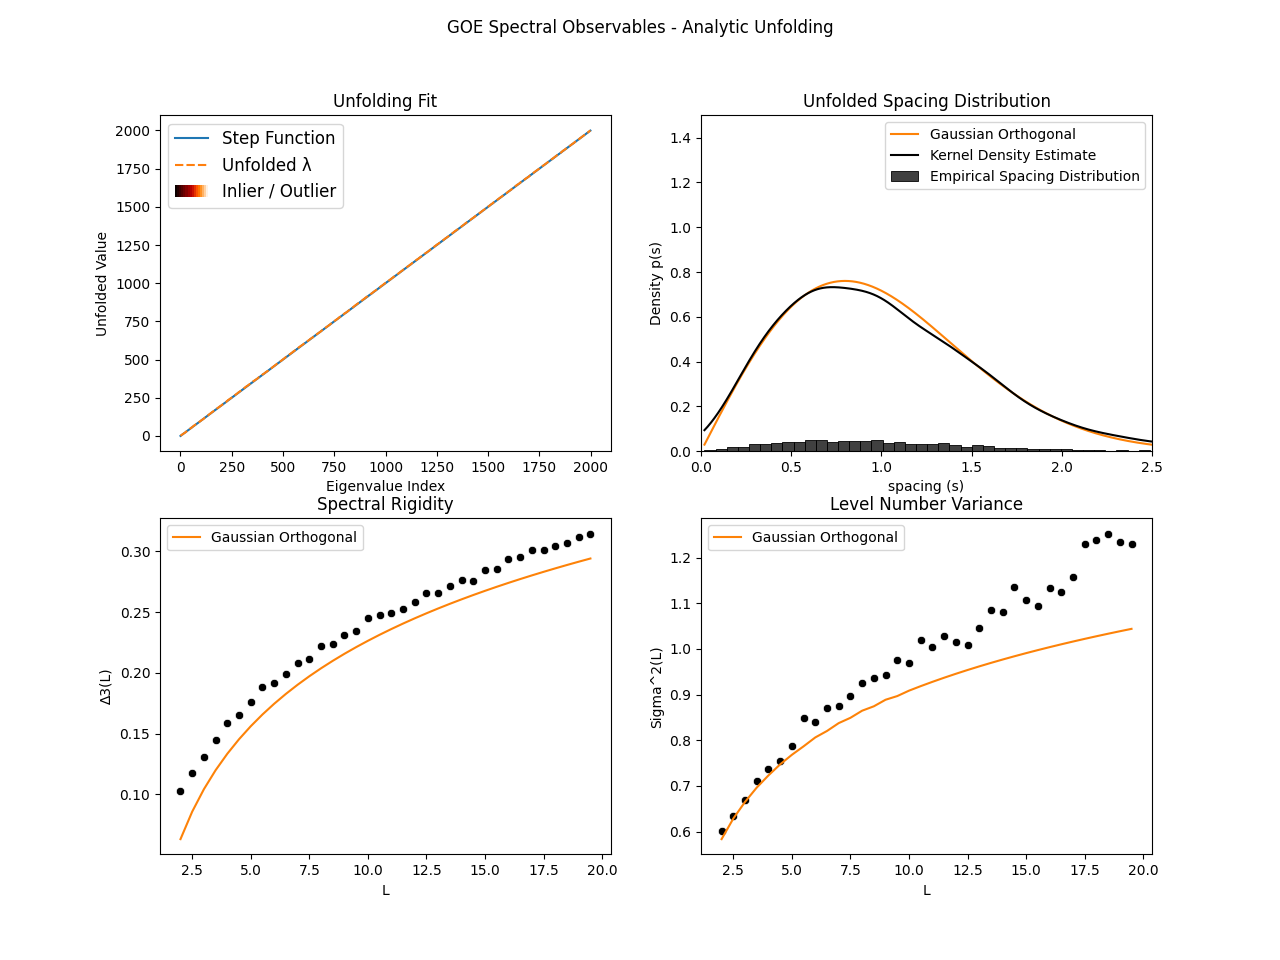
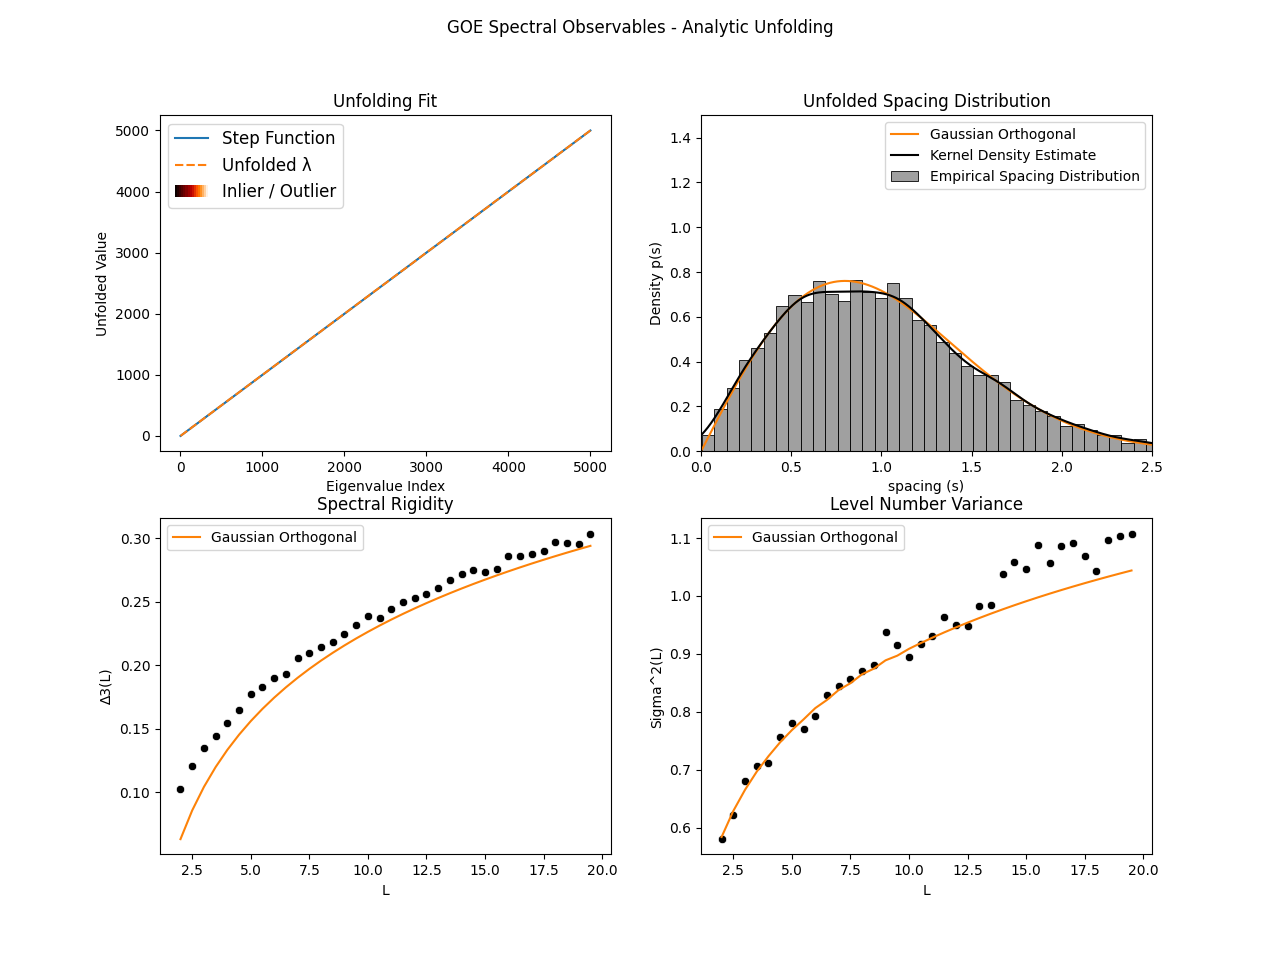
[WIP] update README

diff --git a/empyricalRMT/plot.py b/empyricalRMT/plot.py
@@ -500,11 +500,11 @@ def _spacings(
     # axes: Axes
     axes = sbn.histplot(
         _spacings,
-        stat="probability",
+        stat="density",
         bins=bins,  # type: ignore
         kde=False,
         label="Empirical Spacing Distribution",
-        color="black",
+        color="grey",
         ax=axes,
     )
     axes = cast(Axes, axes)
@@ -858,15 +858,15 @@ def _spectral_rigidity(
         poisson = axes.plot(L, poisson, label="Poisson", color="#08FD4F")
         # plt.setp(poisson, color="#08FD4F")
     if "goe" in ensembles:
-        goe = (1 / (p ** 2)) * (np.log(2 * p * s) + y - 5 / 4 - (p ** 2) / 8)
+        goe = (1 / (p**2)) * (np.log(2 * p * s) + y - 5 / 4 - (p**2) / 8)
         goe = axes.plot(L, goe, label="Gaussian Orthogonal", color="#FD8208")
         # plt.setp(goe, color="#FD8208")
     if "gue" in ensembles:
-        gue = (1 / (2 * (p ** 2))) * (np.log(2 * p * s) + y - 5 / 4)
+        gue = (1 / (2 * (p**2))) * (np.log(2 * p * s) + y - 5 / 4)
         gue = axes.plot(L, gue, label="Gaussian Unitary", color="#0066FF")
         # plt.setp(gue, color="#0066FF")
     if "gse" in ensembles:
-        gse = (1 / (4 * (p ** 2))) * (np.log(4 * p * s) + y - 5 / 4 + (p ** 2) / 8)
+        gse = (1 / (4 * (p**2))) * (np.log(4 * p * s) + y - 5 / 4 + (p**2) / 8)
         gse = axes.plot(L, gse, label="Gaussian Symplectic", color="#EA00FF")
         # plt.setp(gse, color="#EA00FF")
 
@@ -990,7 +990,7 @@ def _level_number_variance(
         # sici(x) returns (Sine integral from 0 to x, gamma + log(x) + Cosine integral from 0 to x)
         int_3 = (sici(np.inf)[0] - sici(p * x)[0]) ** 2
         t1 = 4 * x / p
-        t2 = 2 / p ** 2
+        t2 = 2 / p**2
         t3 = t2 / 2
         res = t1 * quad(f1, p * x, np.inf, limit=100)[0] + t2 * int_2 - 0.25 + t3 * int_3
         return float(res)
@@ -1008,15 +1008,15 @@ def _level_number_variance(
                 if L[i] < 10:
                     goe[i] = exact(s_val)
                 else:
-                    goe[i] = (2 / (p ** 2)) * (np.log(2 * p * s_val) + y + 1 - (p ** 2) / 8)
+                    goe[i] = (2 / (p**2)) * (np.log(2 * p * s_val) + y + 1 - (p**2) / 8)
         goe = axes.plot(L, goe, label="Gaussian Orthogonal")
         plt.setp(goe, color="#FD8208")
     if "gue" in ensembles:
-        gue = (1 / (p ** 2)) * (np.log(2 * p * s) + y + 1)
+        gue = (1 / (p**2)) * (np.log(2 * p * s) + y + 1)
         gue = axes.plot(L, gue, label="Gaussian Unitary")
         plt.setp(gue, color="#0066FF")
     if "gse" in ensembles:
-        gse = (1 / (2 * (p ** 2))) * (np.log(4 * p * s) + y + 1 + (p ** 2) / 8)
+        gse = (1 / (2 * (p**2))) * (np.log(4 * p * s) + y + 1 + (p**2) / 8)
         gse = axes.plot(L, gse, label="Gaussian Symplectic")
         plt.setp(gse, color="#EA00FF")
 

diff --git a/readme/make_figures.py b/readme/make_figures.py
@@ -15,8 +15,8 @@ OUTDIR = Path(__file__).resolve().parent
 
 
 def make_observables_plot() -> None:
-    # generate eigenvalues from a 2000x2000 sample from the Gaussian Orthogonal Ensemble
-    eigs = Eigenvalues.generate(matsize=2000, kind=MatrixKind.GOE)
+    # generate eigenvalues from a 5000x5000 sample from the Gaussian Orthogonal Ensemble
+    eigs = Eigenvalues.generate(matsize=5000, kind=MatrixKind.GOE)
     # unfold "analytically" using Wigner semi-circle
     unfolded = eigs.unfold(smoother=SmoothMethod.GOE)
     # visualize core spectral observables and unfolding fit
@@ -28,6 +28,7 @@ def make_observables_plot() -> None:
         mode=PlotMode.Save,
         outfile=OUTDIR / "observables.png",
     )
+
 
 if __name__ == "__main__":
     make_observables_plot()
